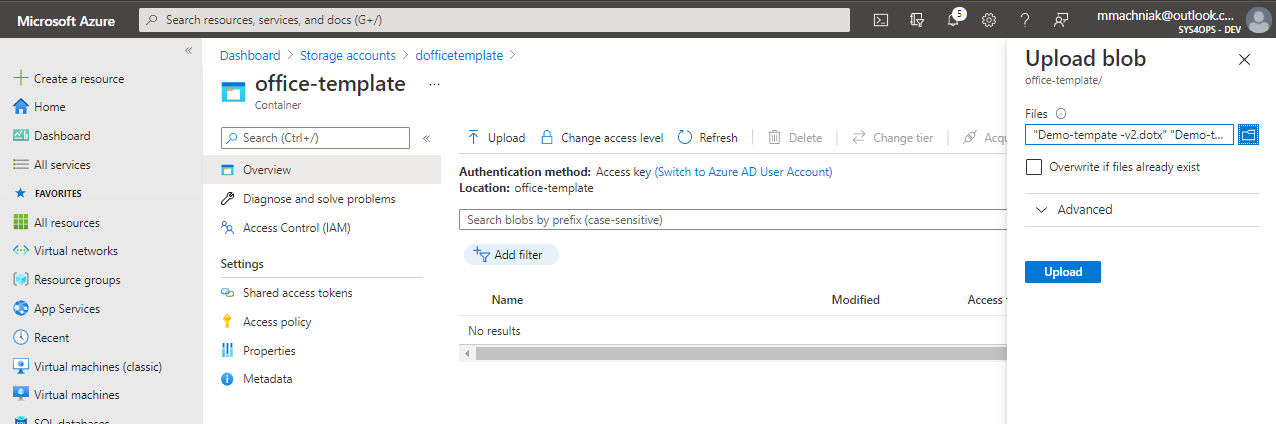
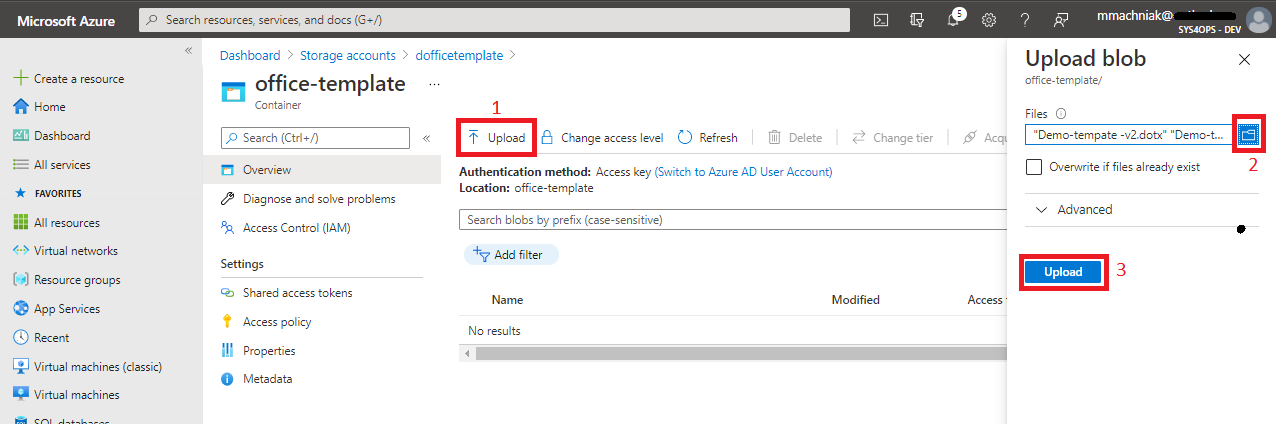
Intune (Endpoint Manager) - How to deploy Office templates and keep them up to date

diff --git a/_posts/2021-08-24-Intune-Office-documents-template.md b/_posts/2021-08-24-Intune-Office-documents-template.md
@@ -60,9 +60,12 @@ To storge office templete and script responsible for deploying templates in loca
 
 3. On navigation bar click **Create**
 
-
+![](/assets/images/azure-st-2.PNG)
 
 4. Enter data in **Basic** tab
+
+![](/assets/images/azure-st-3.PNG)
+
 5. On **Advanced** tab click **Next**
 6. On **Networking** tab click **Next**
 7. On **Data protection** tab click **Next**
